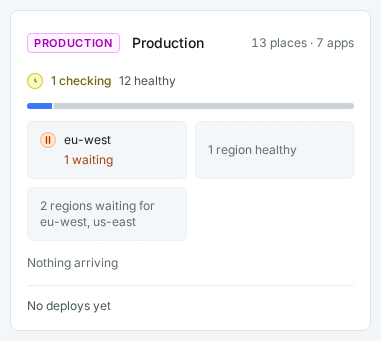
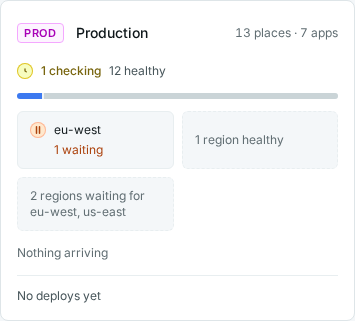
docs(shots): recapture app, environment and activity crops as rendered (dev/prod chips), alt text follows

diff --git a/content/docs/releases/promote.md b/content/docs/releases/promote.md
@@ -109,7 +109,7 @@ kubectl get rolloutgate -n hello-world \
 
 The gate whose name starts with `ghd-` belongs to the Environment. In GitHub, the repository's **Environments** page lists `kuberik/hello-world/staging` and `kuberik/hello-world/production` with every deploy and its bake result. The dashboard shows the same order on the app page.
 
-![The Builds card of hello-world-app: development and staging are healthy on the newest build, 3ea2311; production runs 22d69ba, where eu-west is checking, us-east waits for eu-west and ap-south waits for both](/images/docs/releases/promote-builds.png)
+![The Builds card of hello-world-app: dev and staging are healthy on the newest build, 3ea2311; prod runs 22d69ba, where eu-west is checking, us-east waits for eu-west and ap-south waits for both](/images/docs/releases/promote-builds.png)
 
 ## Troubleshoot
 

diff --git a/content/docs/releases/publish.md b/content/docs/releases/publish.md
@@ -10,7 +10,7 @@ Publish every build as a tagged artifact that a [`ReleaseSource`](/docs/referenc
 
 Each artifact also carries two OCI annotations: `org.opencontainers.image.revision` (the full git commit SHA) and `org.opencontainers.image.source` (the repository URL). Kuberik reads them to link a release to its commit and pull request, so `revision` must be the SHA, not a version string.
 
-![The hello-world-app card on the Apps page: the newest build, 3ea2311, held by Business Hours Only, with development, staging and production, where production is checking](/images/docs/releases/publish-newest.png)
+![The hello-world-app card on the Apps page: the newest build, 3ea2311, held by Business Hours Only, with dev, staging and prod, where prod is checking](/images/docs/releases/publish-newest.png)
 
 ## Tag every build on main
 

diff --git a/content/docs/concepts/environments.md b/content/docs/concepts/environments.md
@@ -96,7 +96,7 @@ For every entry in the Rollout's history the controller creates a GitHub deploym
 
 The deployment payload carries the site, wave and owner, which is how the other clusters see this one. The repository's **Environments** page in GitHub shows the same history, and the dashboard's Environments page shows where each release stands.
 
-![The production environment on the Environments page: 13 places across 7 apps, eu-west with a build waiting, and two regions waiting for eu-west and us-east](/images/docs/concepts/environments.png)
+![The Production environment on the Environments page: 13 places across 7 apps, one checking; eu-west has a build waiting, and two regions wait for eu-west and us-east](/images/docs/concepts/environments.png)
 
 ## Conditions
 

diff --git a/content/docs/operate/monitoring.md b/content/docs/operate/monitoring.md
@@ -10,7 +10,7 @@ Export every [Rollout](/docs/concepts/rollouts/)'s latest deploy, bake state and
 
 The dashboard reads the same fields: its Activity page is the deploy feed across every cluster, and each rollout page shows the bake and health-check state these metrics export.
 
-![The Activity page: no failed deploys, 99 deploys in seven days, the median time to production and a chart of deploys per day](/images/docs/operate/monitoring-activity.png)
+![The Activity page: no failed deploys, 99 deploys in seven days, a median of 2 minutes to prod and a chart of deploys per day](/images/docs/operate/monitoring-activity.png)
 
 ## Export Rollout status with kube-state-metrics
 
